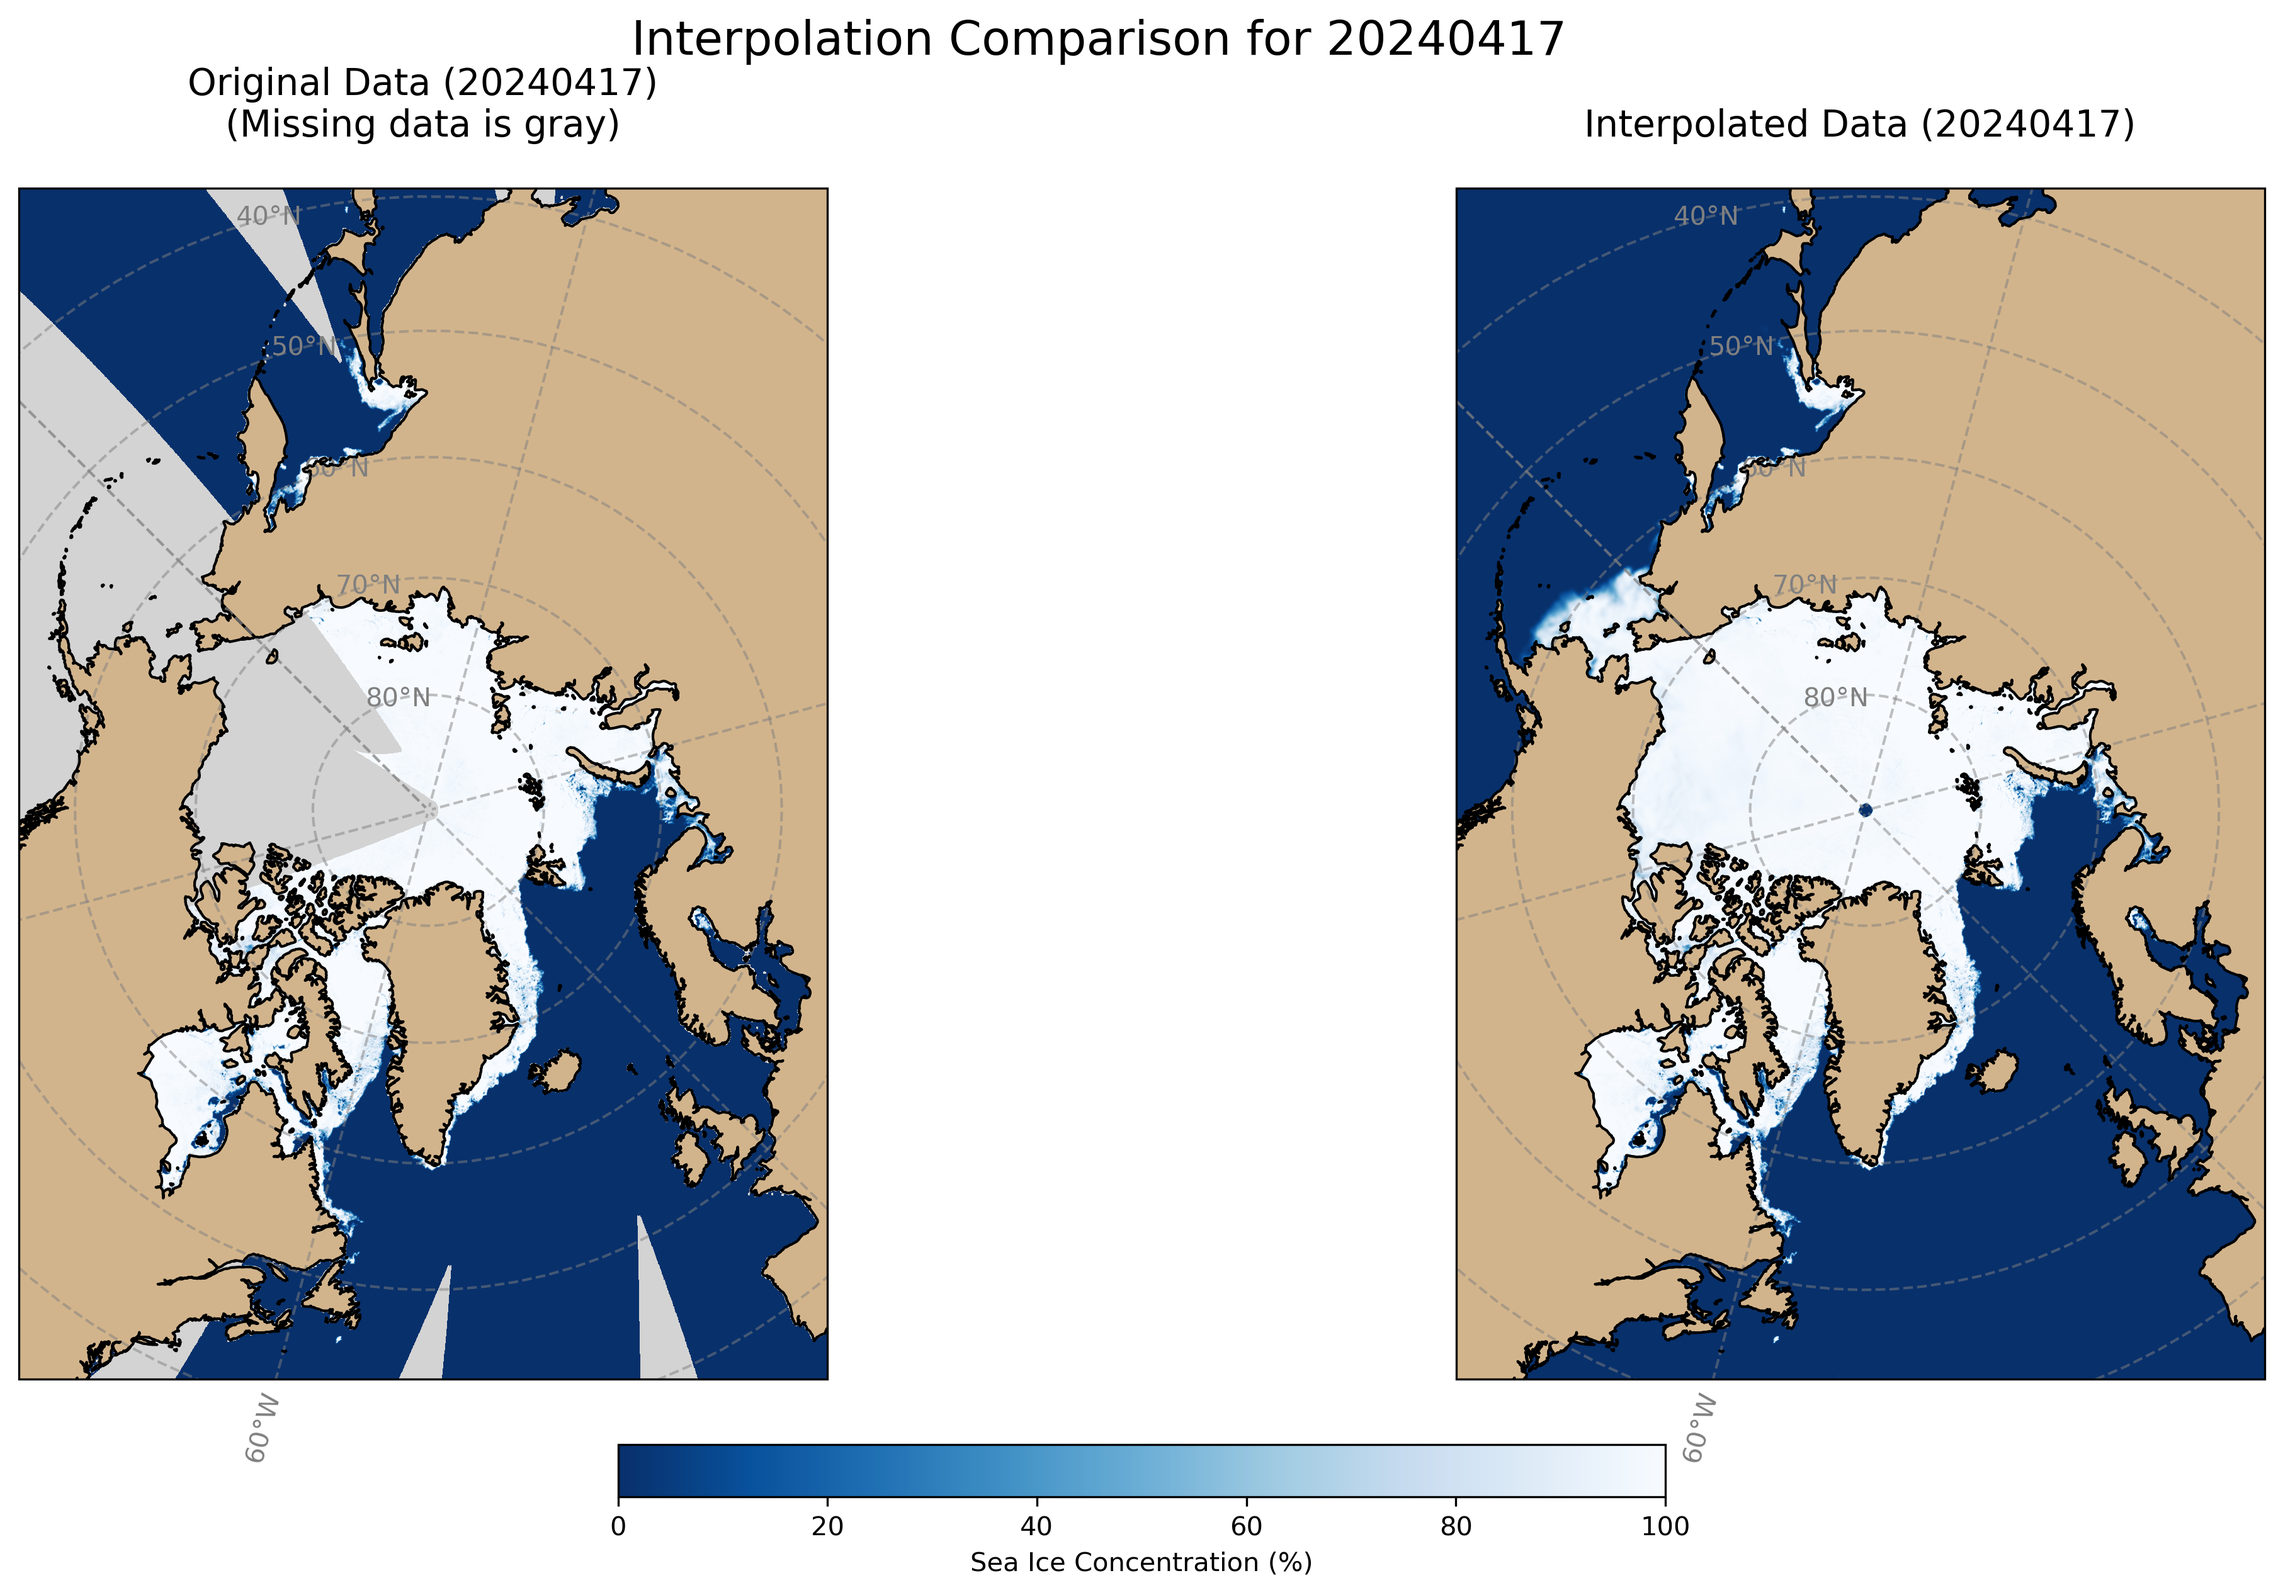
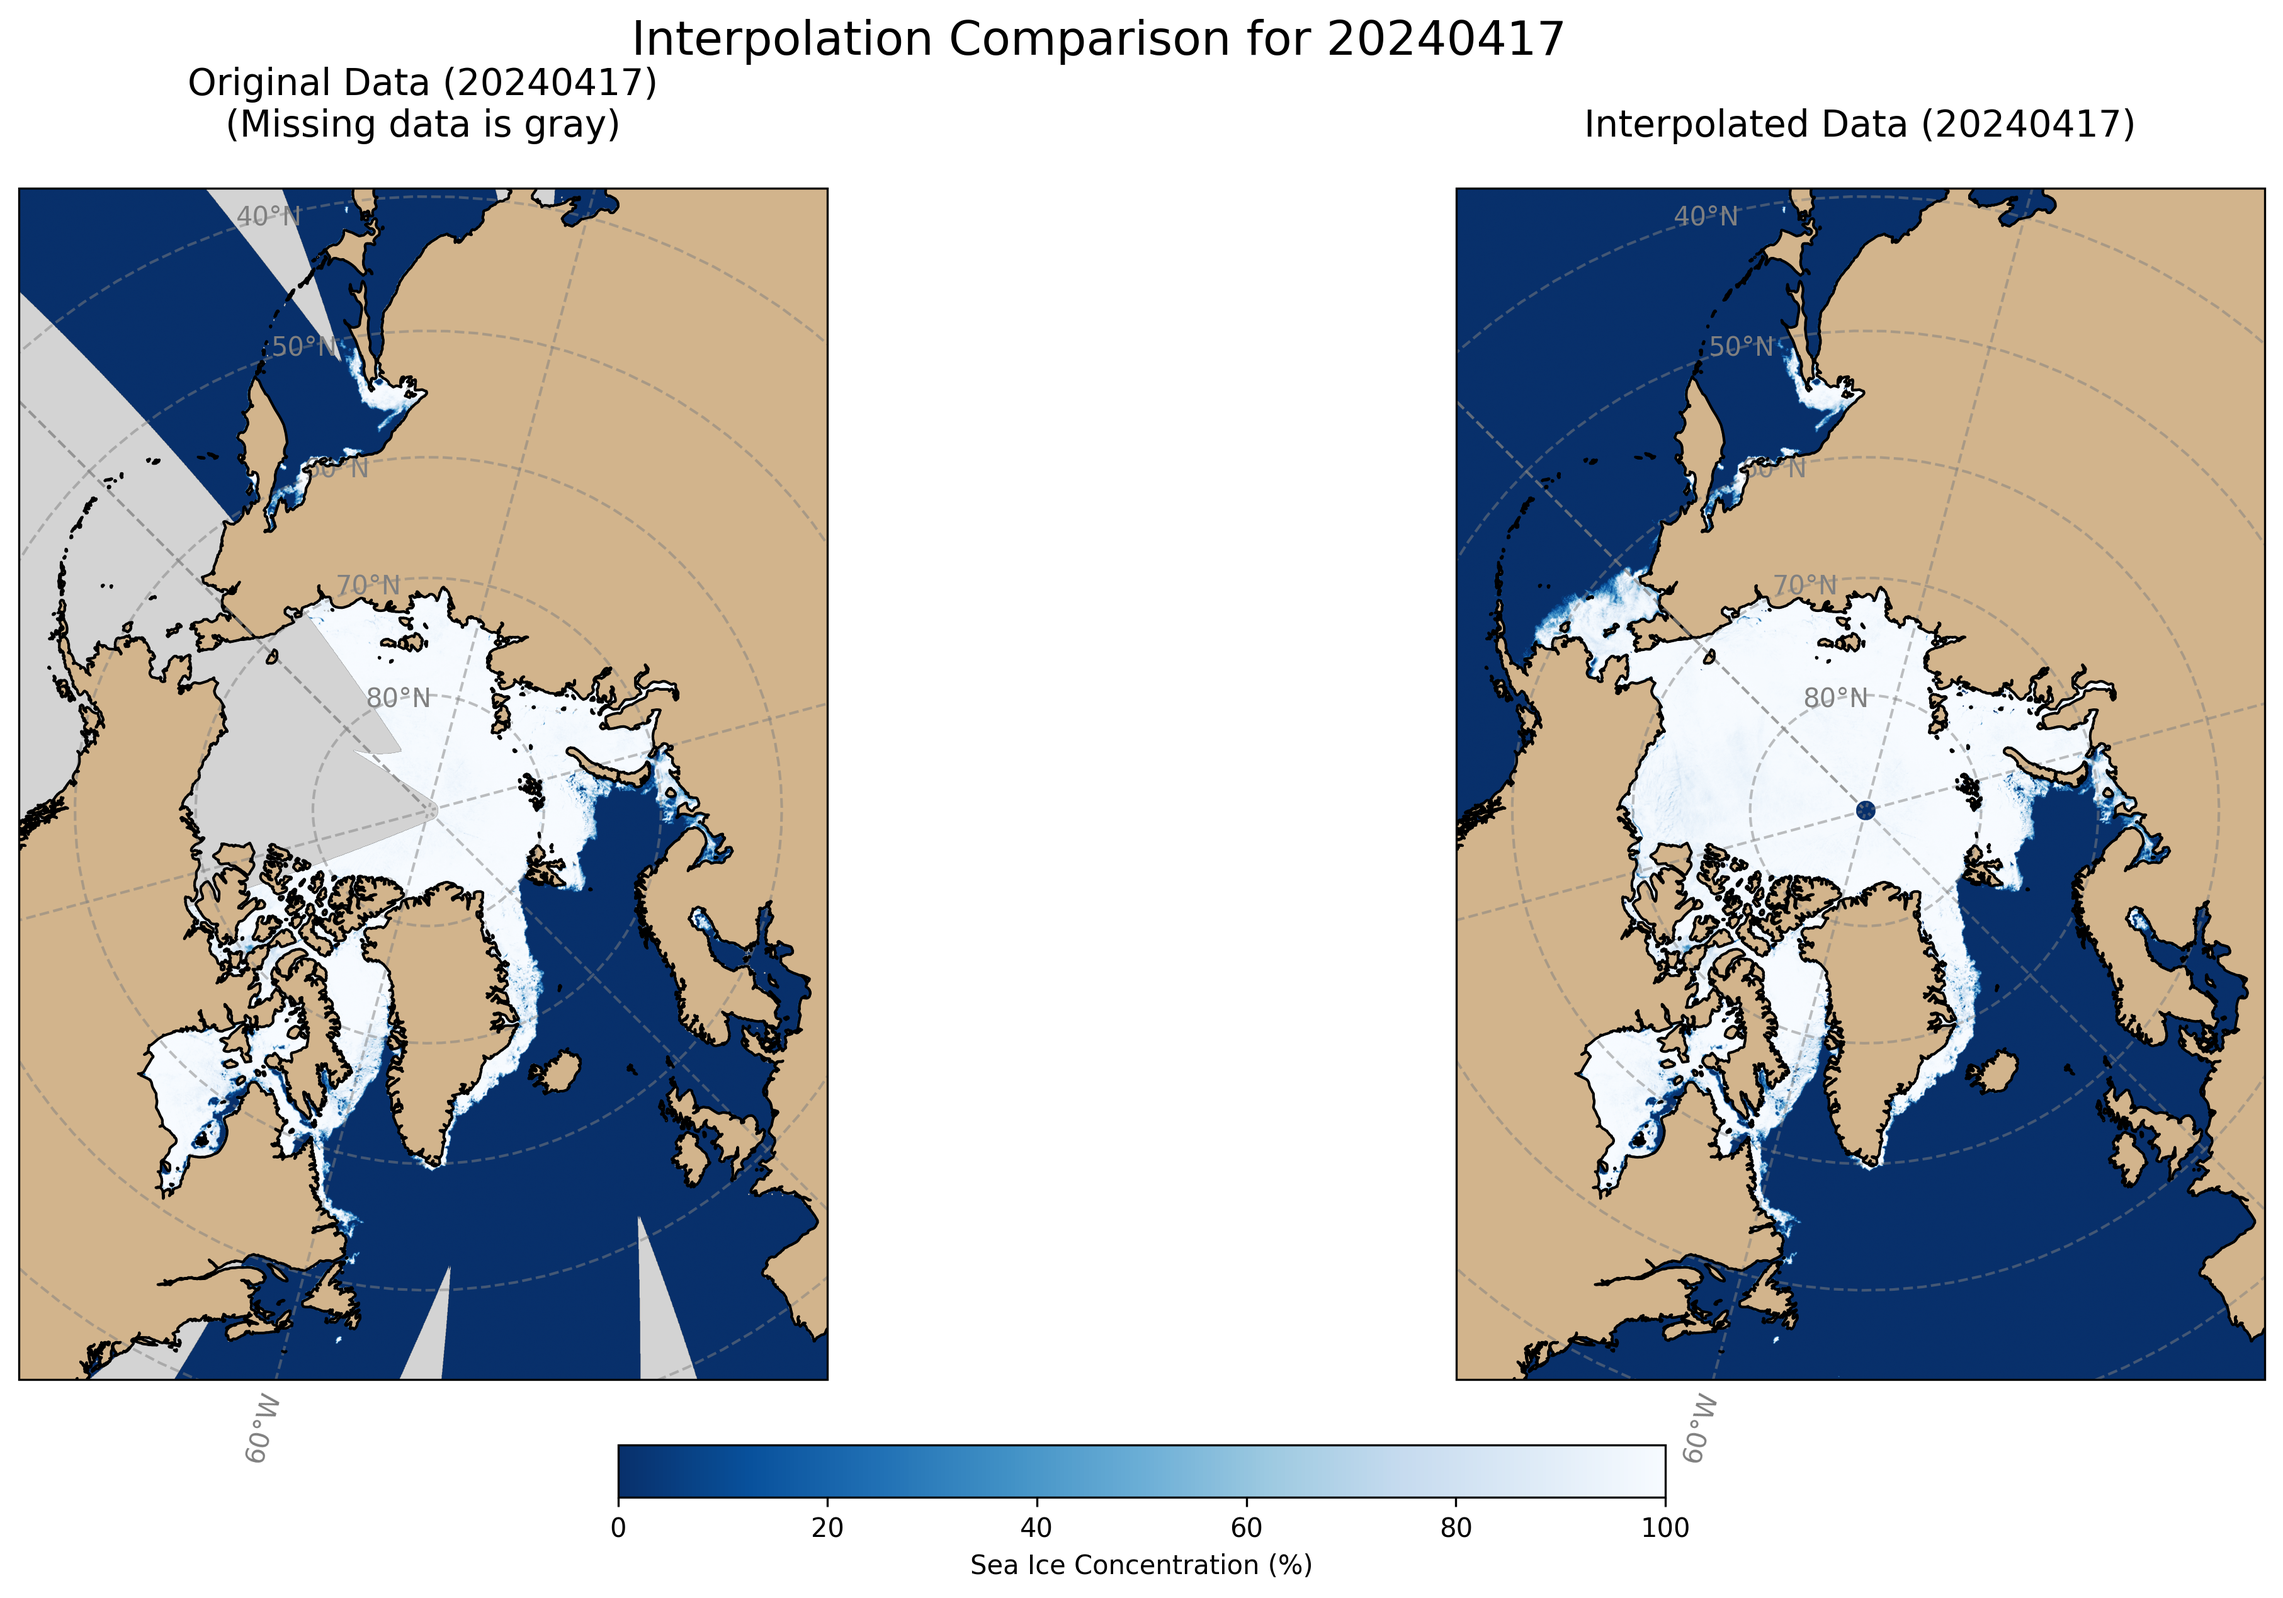
perf: 优化了时空插值算法

diff --git a/consolidate_data.py b/consolidate_data.py
@@ -13,40 +13,125 @@ import numba
 # ==============================================================================
 # 时空插值算法 (Spatio-Temporal Interpolation Algorithm)
 # ==============================================================================
+# ==============================================================================
+# 高级混合时空插值算法 (Advanced Hybrid Spatio-Temporal Interpolation)
+# 策略：优先时间线性插值(保真度高) -> 其次时空高斯加权(填补能力强)
+# ==============================================================================
+
+@numba.jit(nopython=True)
+def _linear_interp_time_1d(arr, max_gap):
+    """
+    辅助函数：对1D数组进行原地线性插值。
+    仅当缺失长度 <= max_gap 时才插值，防止在过长的时间跨度上制造假数据。
+    """
+    T = len(arr)
+    i = 0
+    while i < T:
+        if np.isnan(arr[i]):
+            # 找到连续 NaN 的开始
+            start_idx = i
+            # 寻找下一个有效值
+            end_idx = -1
+            for j in range(start_idx + 1, T):
+                if not np.isnan(arr[j]):
+                    end_idx = j
+                    break
+            
+            if end_idx != -1:
+                # 找到了结束点
+                gap_len = end_idx - start_idx
+                # 只有当缺口在允许范围内时才插值
+                if gap_len <= max_gap:
+                    val_start = arr[start_idx - 1] if start_idx > 0 else np.nan
+                    val_end = arr[end_idx]
+                    
+                    # 只有两头都有值才能做双向线性插值
+                    if not np.isnan(val_start):
+                        slope = (val_end - val_start) / (gap_len + 1)
+                        for k in range(gap_len):
+                            arr[start_idx + k] = val_start + slope * (k + 1)
+                    else:
+                        # 如果开头就是NaN，无法插值，跳过
+                        pass
+                
+                i = end_idx # 跳过已处理段
+            else:
+                # 后面全是 NaN，无法插值，结束循环
+                break
+        else:
+            i += 1
 
 @numba.jit(nopython=True, parallel=True)
 def spatio_temporal_interpolate(data, time_window, space_window, alpha, sigma):
     """
-    使用时空加权平均算法对3D数据立方体中的NaN值进行插值。
-    该函数经过Numba JIT编译以获得高性能。
-
+    两阶段高保真插值算法。
+    
     参数:
-    data (np.ndarray): 输入的三维数组 (time, height, width)，包含 np.nan 作为缺失值。
-    time_window (int): 时间搜索半径。
-    space_window (int): 空间搜索半径。
-    alpha (float): 时空平衡因子。
-    sigma (float): 高斯核的带宽。
-
+    data (np.ndarray): 输入数据 (time, height, width)。
+    time_window (int): 阶段2的时间搜索半径 (建议: 3-5)。
+    space_window (int): 阶段2的空间搜索半径 (建议: 10, 因为不计成本，可以搜大一点)。
+    alpha (float): 时空因子 (建议: 25.0)。
+    sigma (float): 高斯带宽 (建议: space_window / 2)。
+    
     返回:
-    np.ndarray: 插值后的三维数组。
+    np.ndarray: 插值后的数据。
     """
     T, H, W = data.shape
-    interpolated_data = data.copy()
+    # 复制数据，避免修改原始输入
+    out_data = data.copy()
     
+    # ---------------------------------------------------------
+    # 阶段 1: 纯时间维度的线性插值 (Time-Dimension Linear Interpolation)
+    # ---------------------------------------------------------
+    # 目的：对于海冰漂移，时间上的连续性是最强的物理约束。
+    # 相比空间模糊，线性插值能最好地保留海冰边缘的锐利度。
+    # 我们允许最大的线性插值跨度为 5 天 (即连续缺失5天以内都用时间补)。
+    max_time_gap = 5 
+    
+    for y in numba.prange(H):
+        for x in range(W):
+            # 提取当前像素的时间序列
+            time_series = out_data[:, y, x]
+            # 检查是否有NaN，有才处理
+            has_nan = False
+            for t in range(T):
+                if np.isnan(time_series[t]):
+                    has_nan = True
+                    break
+            
+            if has_nan:
+                _linear_interp_time_1d(time_series, max_time_gap)
+                # 将插值后的列写回 (Numba slice assignment)
+                out_data[:, y, x] = time_series
+
+    # ---------------------------------------------------------
+    # 阶段 2: 残差时空高斯加权 (Residual Spatio-Temporal Gaussian)
+    # ---------------------------------------------------------
+    # 目的：处理阶段1无法覆盖的长期缺失（如连续10天云层遮挡）或边缘空间缺失。
+    # 这里我们使用一个较大的窗口来确保填补所有空洞。
+    
+    # 找出剩余的 NaN 索引
     missing_indices = []
     for t in range(T):
         for y in range(H):
             for x in range(W):
-                if np.isnan(data[t, y, x]):
+                if np.isnan(out_data[t, y, x]):
                     missing_indices.append((t, y, x))
+    
+    num_missing = len(missing_indices)
+    
+    # 如果没有缺失了，直接返回
+    if num_missing == 0:
+        return out_data
 
-    # Numba 可以很好地并行化这个外层循环
-    for i in numba.prange(len(missing_indices)):
+    # 并行处理剩余的缺失点
+    for i in numba.prange(num_missing):
         t_m, y_m, x_m = missing_indices[i]
         
         weighted_sum = 0.0
         total_weight = 0.0
         
+        # 确定搜索范围
         t_start = max(0, t_m - time_window)
         t_end = min(T, t_m + time_window + 1)
         y_start = max(0, y_m - space_window)
@@ -54,19 +139,39 @@ def spatio_temporal_interpolate(data, time_window, space_window, alpha, sigma):
         x_start = max(0, x_m - space_window)
         x_end = min(W, x_m + space_window + 1)
         
+        # 使用 float64 累加器以获得最高精度
+        
         for t_k in range(t_start, t_end):
+            # 预先计算时间距离的平方部分，减少循环内计算量
+            dt = t_m - t_k
+            dist_t_sq = alpha * (dt * dt)
+            
             for y_k in range(y_start, y_end):
+                dy = y_m - y_k
+                dy_sq = dy * dy
+                
                 for x_k in range(x_start, x_end):
-                    if not np.isnan(data[t_k, y_k, x_k]):
-                        dist_sq = (y_m - y_k)**2 + (x_m - x_k)**2 + alpha * (t_m - t_k)**2
-                        weight = np.exp(-dist_sq / (2 * sigma**2))
-                        weighted_sum += weight * data[t_k, y_k, x_k]
+                    val = out_data[t_k, y_k, x_k]
+                    if not np.isnan(val):
+                        dx = x_m - x_k
+                        # 计算欧几里得距离平方
+                        dist_sq = dy_sq + (dx * dx) + dist_t_sq
+                        
+                        # 高斯权重
+                        weight = np.exp(-dist_sq / (2 * sigma * sigma))
+                        
+                        weighted_sum += weight * val
                         total_weight += weight
         
-        if total_weight > 1e-6:
-            interpolated_data[t_m, y_m, x_m] = weighted_sum / total_weight
+        # 如果找到了有效的邻居
+        if total_weight > 1e-9:
+            out_data[t_m, y_m, x_m] = weighted_sum / total_weight
+        else:
+            # 如果依然找不到邻居（极端情况，比如孤岛），填0或者保持NaN
+            # 对于训练数据，通常填0比NaN安全
+            out_data[t_m, y_m, x_m] = 0.0
             
-    return interpolated_data
+    return out_data
 
 # ==============================================================================
 # 数据合并主逻辑 (Main Data Consolidation Logic)
@@ -245,9 +350,9 @@ if __name__ == '__main__':
     # --- 性能与插值参数 ---
     parser.add_argument('--batch_size', type=int, default=30, help='一次读入内存处理的帧数 (天数)，影响内存占用。默认: 30')
     parser.add_argument('--time_window', type=int, default=3, help='插值时的时间搜索半径 (天)。默认: 3')
-    parser.add_argument('--space_window', type=int, default=7, help='插值时的空间搜索半径 (像素)。默认: 7')
+    parser.add_argument('--space_window', type=int, default=10, help='插值时的空间搜索半径 (像素)。默认: 10')
     parser.add_argument('--alpha', type=float, default=25.0, help='插值时的时空平衡因子。值越大越强调空间邻近性。推荐: 25.0')
-    parser.add_argument('--sigma', type=float, default=3.0, help='插值时的高斯核带宽。推荐: 3.0')
+    parser.add_argument('--sigma', type=float, default=5.0, help='插值时的高斯核带宽。推荐: 5.0')
 
     args = parser.parse_args()
 
